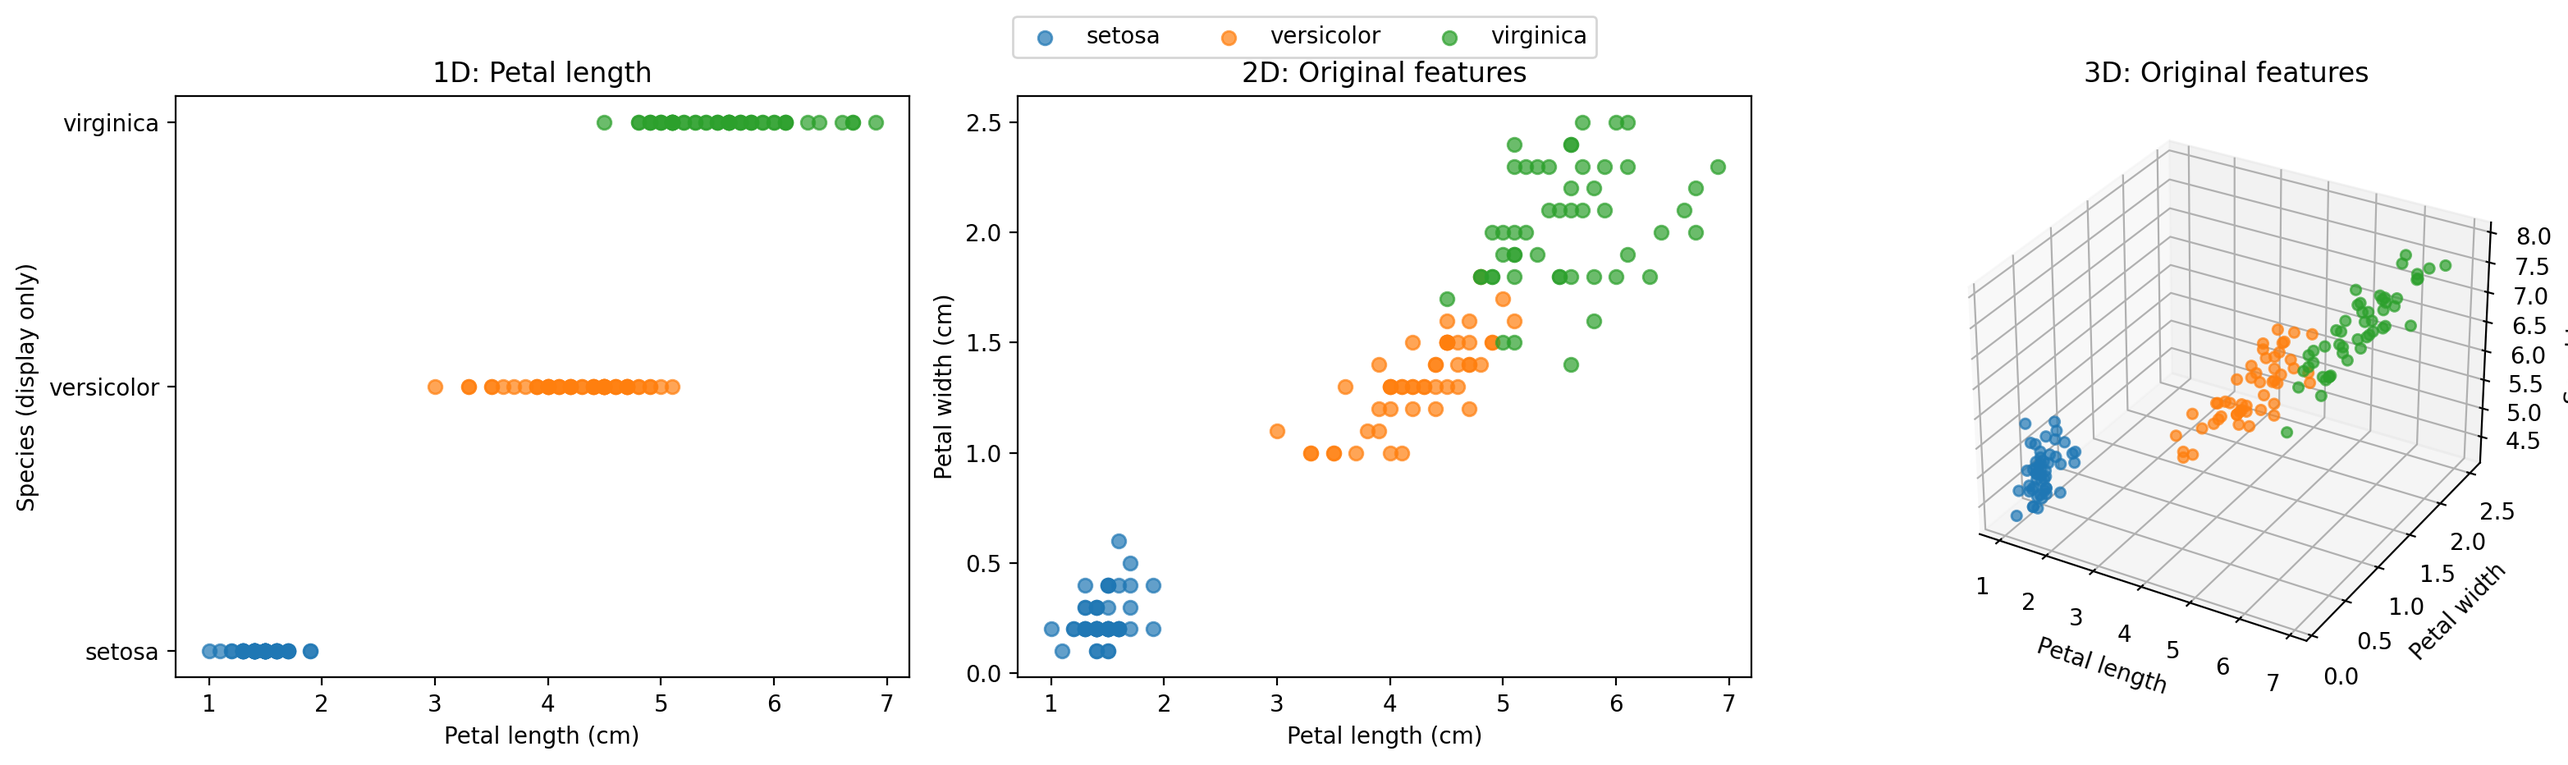
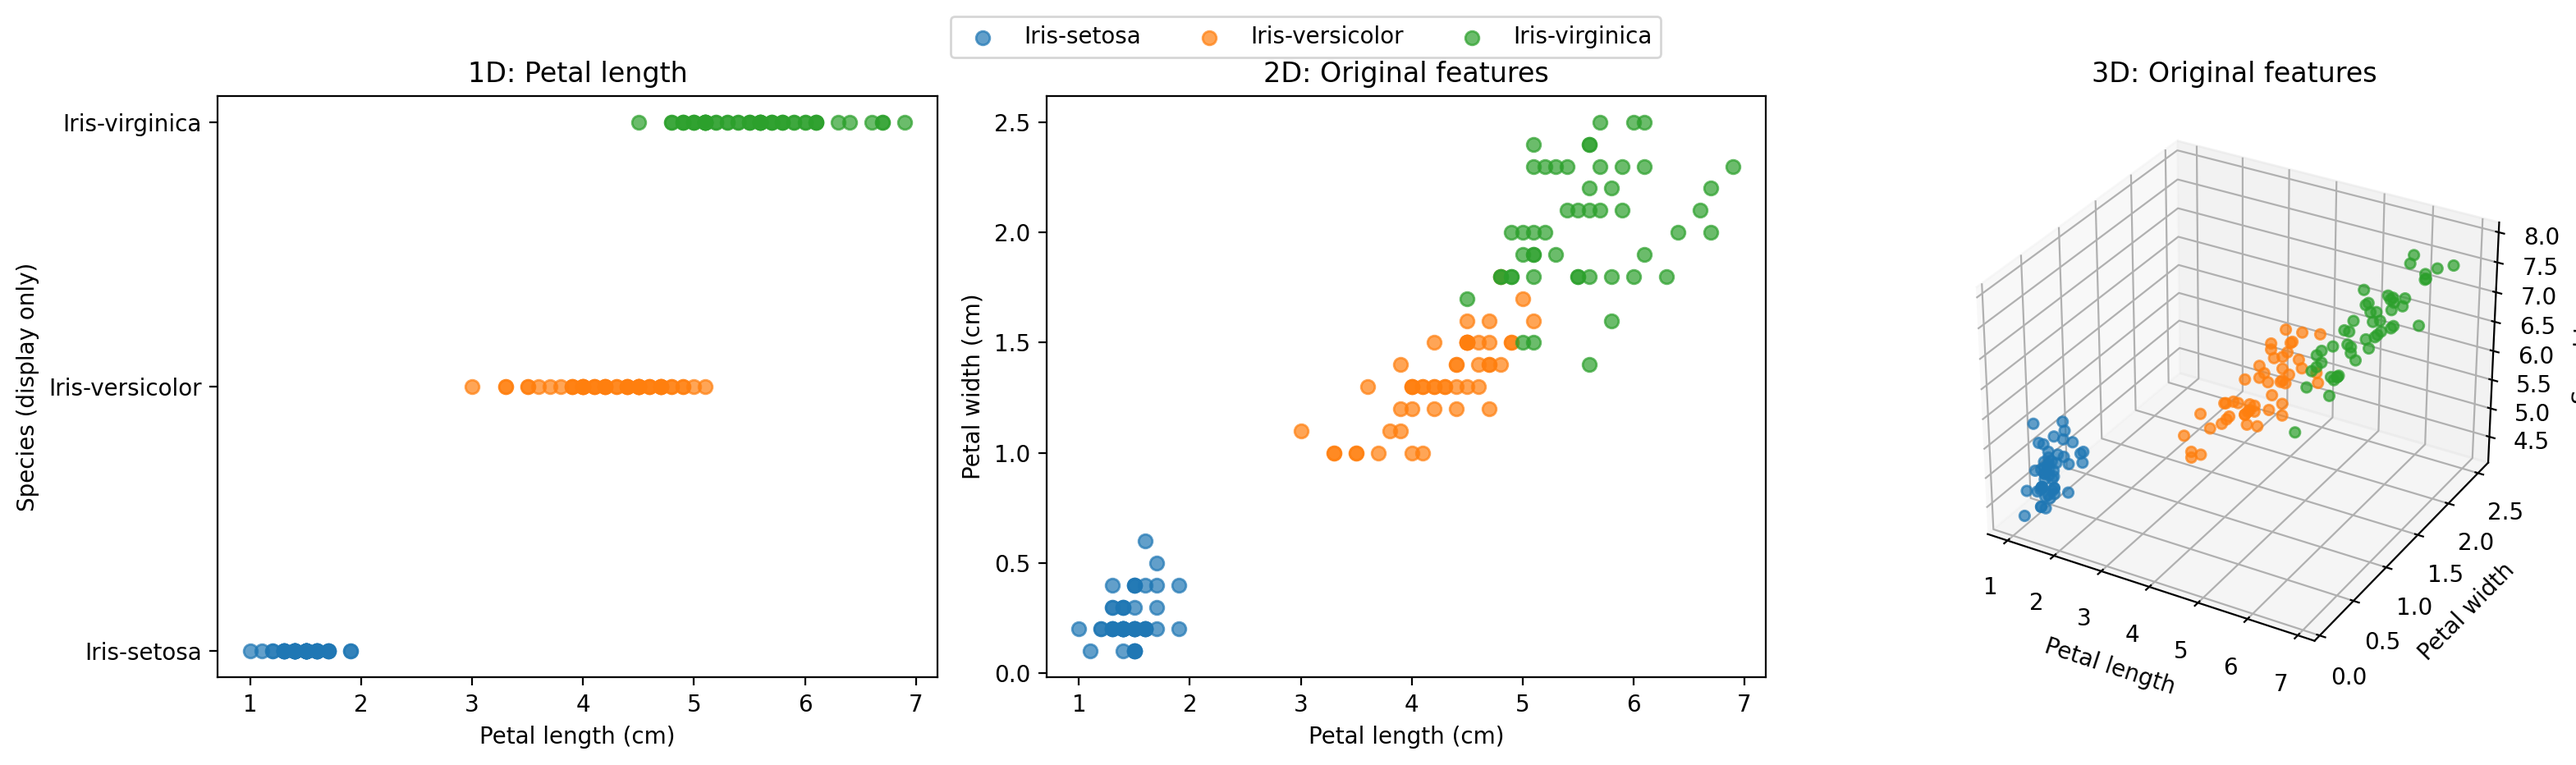
fixes to index 3

diff --git a/3/index.html b/3/index.html
@@ -73,7 +73,7 @@
     </figure>
 
     <h2 id="part2">Part 2 — Data Visualization</h2>
-    <p>The Iris dataset contains 150 observations across three species (Setosa, Versicolor, and Virginica). Each observation includes sepal length, sepal width, petal length, and petal width, all measured in centimeters. To marginalize the data as requested, I directly selected one, two, and three original feature dimensions without transforming them.</p>
+    <p>The Iris dataset was retrieved directly from the UCI Machine Learning Repository (dataset ID 53) using <code>ucimlrepo</code>. It contains 150 observations across three species (Setosa, Versicolor, and Virginica). Each observation includes sepal length, sepal width, petal length, and petal width, all measured in centimeters. To marginalize the data as requested, I directly selected one, two, and three original feature dimensions without transforming them.</p>
     <div class="a3-steps">
       <p><strong>1D:</strong> petal length</p>
       <p><strong>2D:</strong> petal length and petal width</p>
@@ -83,10 +83,10 @@
       <img src="./media/part2_features.png" alt="Iris visualizations with one, two, and three original features" loading="lazy">
       <div class="cap">Original-feature projections. The species coordinate in the 1D panel is used only to separate the groups visually; it is not a second input feature.</div>
     </div>
-    <p><strong>Comment.</strong> Petal length alone distinguishes Setosa fairly well because its petals are much shorter than those of the other two species. However, Versicolor and Virginica still overlap. Petal length versus petal width gives a particularly clear visualization of all three groups: Setosa is well isolated, and the other two species form largely distinct but partially overlapping clusters. Sepal length adds context in 3D, though it does not completely resolve the overlap. Of the projections shown, the <strong>petal-length/petal-width combination</strong> is the clearest and simplest view of class structure.</p>
+    <p>In the one-dimensional petal-length projection, Setosa is clearly separated from the other species, with petal lengths approximately between 1 and 2 cm. Versicolor and Virginica occupy higher, partially overlapping ranges. The two-dimensional petal-length/petal-width plot reveals three recognizable clusters: Setosa is completely separated, while Versicolor and Virginica overlap in a small region. Adding sepal length as a third feature reveals more of the distribution but does not fully eliminate the overlap. Among these selections, <strong>petal length and petal width</strong> provide the clearest, simplest class separation.</p>
 
     <h2 id="part3">Part 3 — Principal Component Analysis</h2>
-    <p>Unlike Part 2, PCA constructs new axes as linear combinations of all four original measurements. I fit scikit-learn's <code>PCA(n_components=4)</code> on the raw Iris features; the estimator centers each feature, and I did <strong>not</strong> standardize feature variances. The transformed coordinates were plotted using the leading one, two, and three principal components.</p>
+    <p>Unlike Part 2, PCA constructs new axes as linear combinations of all four original measurements. I fit scikit-learn's <code>PCA(n_components=4)</code> on the UCI Iris features; the estimator centers each feature, and I did <strong>not</strong> standardize feature variances. The transformed coordinates were plotted using the leading one, two, and three principal components.</p>
     <div class="eq">Xᶜ = X − μ<br>Z = Xᶜ W<br>W = [PC1, PC2, PC3, PC4]</div>
     <div class="plot">
       <img src="./media/part3_pca.png" alt="Iris dataset projected onto the first principal component, first two principal components, and first three principal components" loading="lazy">
@@ -97,13 +97,13 @@
     <div class="a3-table-wrap"><table>
       <thead><tr><th>Axis</th><th>Sepal length</th><th>Sepal width</th><th>Petal length</th><th>Petal width</th></tr></thead>
       <tbody>
-        <tr><td>PC1</td><td>0.3614</td><td>−0.0845</td><td>0.8567</td><td>0.3583</td></tr>
-        <tr><td>PC2</td><td>0.6566</td><td>0.7302</td><td>−0.1734</td><td>−0.0755</td></tr>
-        <tr><td>PC3</td><td>−0.5820</td><td>0.5979</td><td>0.0762</td><td>0.5458</td></tr>
-        <tr><td>PC4</td><td>0.3155</td><td>−0.3197</td><td>−0.4798</td><td>0.7537</td></tr>
+        <tr><td>PC1</td><td>0.3616</td><td>−0.0823</td><td>0.8566</td><td>0.3588</td></tr>
+        <tr><td>PC2</td><td>0.6565</td><td>0.7297</td><td>−0.1758</td><td>−0.0747</td></tr>
+        <tr><td>PC3</td><td>−0.5810</td><td>0.5964</td><td>0.0725</td><td>0.5491</td></tr>
+        <tr><td>PC4</td><td>0.3173</td><td>−0.3241</td><td>−0.4797</td><td>0.7511</td></tr>
       </tbody>
     </table></div>
-    <p><strong>Comment.</strong> The first principal component has its largest coefficient on petal length (0.8567), indicating that variation in this measurement strongly influences PC1. A single PCA axis already separates Setosa well, but Versicolor and Virginica still overlap. The PC1–PC2 plot reveals more of the separation, and PC3 makes some additional variation visible. PCA has therefore reduced four measurements to an easily plotted representation, while retaining contributions from every original feature.</p>
+    <p><strong>Comment.</strong> PC1 is most strongly influenced by petal length (coefficient 0.8566), while PC2 is primarily influenced by sepal length and sepal width (0.6565 and 0.7297). The one-dimensional PC1 projection clearly separates Setosa from the other species, but Versicolor and Virginica overlap. The PC1–PC2 projection reveals three recognizable groups, with overlap remaining between the latter two. PC3 adds some variation but does not completely separate those classes. The first two PCs already retain 97.76% of the total variance, so the third contributes relatively little additional variation.</p>
 
     <h2 id="part4">Part 4 — Data Compression</h2>
     <p>For centered data, the squared Frobenius norm equals the total sum of squared deviations. It is proportional to the sum of covariance eigenvalues, so retained variance after projection onto the first k PCs is the sum of their eigenvalues divided by the total.</p>
@@ -111,15 +111,15 @@
     <div class="a3-table-wrap"><table>
       <thead><tr><th>Component</th><th>Individual variance</th><th>Cumulative variance</th></tr></thead>
       <tbody>
-        <tr><td>PC1</td><td>92.4619%</td><td>92.4619%</td></tr>
-        <tr><td>PC2</td><td>5.3066%</td><td class="hero-num">97.7685%</td></tr>
-        <tr><td>PC3</td><td>1.7103%</td><td>99.4788%</td></tr>
-        <tr><td>PC4</td><td>0.5212%</td><td>100.0000%</td></tr>
+        <tr><td>PC1</td><td>92.4616%</td><td>92.4616%</td></tr>
+        <tr><td>PC2</td><td>5.3016%</td><td class="hero-num">97.7632%</td></tr>
+        <tr><td>PC3</td><td>1.7185%</td><td>99.4817%</td></tr>
+        <tr><td>PC4</td><td>0.5183%</td><td>100.0000%</td></tr>
       </tbody>
     </table></div>
     <h3>1. Variance explained by two dimensions</h3>
-    <div class="eq result"><strong>92.4619% + 5.3066% = 97.7685% ≈ 97.77%</strong></div>
-    <p>Two PCA dimensions retain nearly all of the original variance. Only about 2.23% of the total centered squared variation is lost.</p>
+    <div class="eq result"><strong>92.4616% + 5.3016% = 97.7632% ≈ 97.76%</strong></div>
+    <p>Two PCA dimensions retain nearly all of the original variance. Only about 2.24% of the total centered squared variation is lost.</p>
     <h3>2. Number of PCs needed for 50% variance</h3>
     <div class="eq result"><strong>PC1 alone = 92.46% &gt; 50% → 1 principal component</strong></div>
     <p><strong>Comment.</strong> PCA is a very effective compression method for this dataset: the four original features can be reduced to two with relatively little loss of variation. This statement concerns variance and squared reconstruction error, not necessarily how much information is retained for a classification task.</p>
@@ -139,25 +139,26 @@
       <thead><tr><th>Embedding</th><th>Silhouette score</th></tr></thead>
       <tbody>
         <tr><td>PCA (2 dimensions)</td><td>0.5344</td></tr>
-        <tr><td>ISOMAP (2 dimensions, k = 3)</td><td class="hero-num">0.5590</td></tr>
+        <tr><td>ISOMAP (2 dimensions, k = 3)</td><td class="hero-num">0.5598</td></tr>
       </tbody>
     </table></div>
     <div class="note"><strong>Important numerical limitation.</strong> With only three neighbors, the Iris nearest-neighbor graph contains <strong>two disconnected components</strong>. Scikit-learn warns about this and completes the graph so an ISOMAP embedding can be calculated. The ISOMAP result therefore depends in part on those added connections, and its apparent class separation should be interpreted cautiously.</div>
-    <p><strong>Comparison.</strong> ISOMAP has a slightly higher silhouette score (0.5590 versus 0.5344), which suggests modestly improved separation under this metric. Nonetheless, PCA is preferable for <strong>data compression</strong>: its first two components preserve 97.77% of variance and offer a direct linear reconstruction of the original centered measurements. ISOMAP does not optimize explained variance, so the PCA percentage cannot be applied directly to its embedding. ISOMAP may be somewhat preferable for visualizing class separation here, but its small gain and disconnected neighborhood graph limit how confidently we can claim an advantage.</p>
+    <p><strong>Comparison.</strong> ISOMAP has a slightly higher silhouette score (0.5598 versus 0.5344), an absolute increase of 0.0254, suggesting modestly improved separation under this metric. The ISOMAP plot shows Setosa as a narrow isolated cluster and more curved distributions for Versicolor and Virginica, which still overlap. Nonetheless, PCA is preferable for <strong>data compression</strong>: its first two components preserve 97.76% of variance and offer a direct linear reconstruction of the original centered measurements. ISOMAP does not optimize explained variance, so the PCA percentage cannot be applied directly to its embedding. ISOMAP may be somewhat preferable for visualizing class separation here, but its small gain and disconnected neighborhood graph limit how confidently we can claim an advantage.</p>
 
     <h2 id="source">Python Source</h2>
-    <p>The script includes the Iris feature projections, PCA vectors and variance calculation, the three-neighbor ISOMAP embedding, and the silhouette-score comparison. It uses NumPy, Matplotlib, and scikit-learn without extra helper functions.</p>
-    <div class="a3-links"><span class="badge">source</span> <a href="./code/SYDE_572_A3.py">Download full Python script</a> <a href="https://archive.ics.uci.edu/dataset/53/iris">Iris dataset (UCI)</a></div>
+    <p>The script fetches UCI Iris dataset 53 using <code>ucimlrepo</code>, then produces original-feature plots, PCA vectors and variance ratios, the three-neighbor ISOMAP embedding, and silhouette scores. It uses NumPy, Matplotlib, and scikit-learn without extra helper functions.</p>
+    <div class="a3-links"><span class="badge">source</span> <a href="./code/SYDE_572_A3_UCI.py">Download full Python script</a> <a href="https://archive.ics.uci.edu/dataset/53/iris">Iris dataset (UCI)</a></div>
     <details class="code a3-code">
       <summary>Show core PCA, variance, and ISOMAP code</summary>
-<pre><code>from sklearn.datasets import load_iris
+<pre><code>from ucimlrepo import fetch_ucirepo
 from sklearn.decomposition import PCA
 from sklearn.manifold import Isomap
 from sklearn.metrics import silhouette_score
 import numpy as np
 
-iris = load_iris()
-X, y = iris.data, iris.target
+iris = fetch_ucirepo(id=53)
+X = iris.data.features.to_numpy(dtype=float)
+y = iris.data.targets.iloc[:, 0].to_numpy()
 
 pca = PCA(n_components=4)
 X_pca = pca.fit_transform(X)

diff --git a/3/code/SYDE 572 A3.py b/3/code/SYDE 572 A3.py
@@ -1,27 +1,32 @@
 import numpy as np
 import matplotlib.pyplot as plt
-from sklearn.datasets import load_iris
+from ucimlrepo import fetch_ucirepo
 from sklearn.decomposition import PCA
 from sklearn.manifold import Isomap
 from sklearn.metrics import silhouette_score
 
-iris = load_iris()
-X, y = iris.data, iris.target
-names = iris.target_names
-colours = ['tab:blue', 'tab:orange', 'tab:green']
+# UCI Machine Learning Repository: Iris (dataset ID 53)
+iris = fetch_ucirepo(id=53)
+X = iris.data.features.to_numpy(dtype=float)
+y = iris.data.targets.iloc[:, 0].to_numpy()
+names = np.unique(y)
+print('Feature order:', iris.data.features.columns.tolist())
+print('Dataset shape:', X.shape)
+print('Species:', names)
+colors = ['tab:blue', 'tab:orange', 'tab:green']
 
 # Part 2: Original feature projections
 fig = plt.figure(figsize=(16, 4.5))
 ax1 = fig.add_subplot(131)
 ax2 = fig.add_subplot(132)
 ax3 = fig.add_subplot(133, projection='3d')
-for i in range(3):
-    mask = y == i
-    ax1.scatter(X[mask, 2], np.full(mask.sum(), i), color=colours[i], alpha=0.7, label=names[i])
-    ax2.scatter(X[mask, 2], X[mask, 3], color=colours[i], alpha=0.7)
-    ax3.scatter(X[mask, 2], X[mask, 3], X[mask, 0], color=colours[i], alpha=0.7)
+for i, species in enumerate(names):
+    mask = y == species
+    ax1.scatter(X[mask, 2], np.full(mask.sum(), i), color=colors[i], alpha=0.7, label=species)
+    ax2.scatter(X[mask, 2], X[mask, 3], color=colors[i], alpha=0.7)
+    ax3.scatter(X[mask, 2], X[mask, 3], X[mask, 0], color=colors[i], alpha=0.7)
 ax1.set(xlabel='Petal length (cm)', ylabel='Species (display only)', title='1D: Petal length')
-ax1.set_yticks(range(3), names)
+ax1.set_yticks(range(len(names)), names)
 ax2.set(xlabel='Petal length (cm)', ylabel='Petal width (cm)', title='2D: Original features')
 ax3.set(xlabel='Petal length', ylabel='Petal width', zlabel='Sepal length', title='3D: Original features')
 fig.legend(loc='upper center', ncol=3, bbox_to_anchor=(0.5, 1.04))
@@ -41,13 +46,13 @@ fig = plt.figure(figsize=(16, 4.5))
 ax1 = fig.add_subplot(131)
 ax2 = fig.add_subplot(132)
 ax3 = fig.add_subplot(133, projection='3d')
-for i in range(3):
-    mask = y == i
-    ax1.scatter(X_pca[mask, 0], np.full(mask.sum(), i), color=colours[i], alpha=0.7, label=names[i])
-    ax2.scatter(X_pca[mask, 0], X_pca[mask, 1], color=colours[i], alpha=0.7)
-    ax3.scatter(X_pca[mask, 0], X_pca[mask, 1], X_pca[mask, 2], color=colours[i], alpha=0.7)
+for i, species in enumerate(names):
+    mask = y == species
+    ax1.scatter(X_pca[mask, 0], np.full(mask.sum(), i), color=colors[i], alpha=0.7, label=species)
+    ax2.scatter(X_pca[mask, 0], X_pca[mask, 1], color=colors[i], alpha=0.7)
+    ax3.scatter(X_pca[mask, 0], X_pca[mask, 1], X_pca[mask, 2], color=colors[i], alpha=0.7)
 ax1.set(xlabel='PC1', ylabel='Species (display only)', title='1D PCA')
-ax1.set_yticks(range(3), names)
+ax1.set_yticks(range(len(names)), names)
 ax2.set(xlabel='PC1', ylabel='PC2', title='2D PCA')
 ax3.set(xlabel='PC1', ylabel='PC2', zlabel='PC3', title='3D PCA')
 fig.legend(loc='upper center', ncol=3, bbox_to_anchor=(0.5, 1.04))
@@ -58,10 +63,10 @@ fig.savefig('3/media/part3_pca.png', dpi=200, bbox_inches='tight')
 isomap = Isomap(n_neighbors=3, n_components=2)
 X_isomap = isomap.fit_transform(X)
 fig, axes = plt.subplots(1, 2, figsize=(11, 4.5))
-for i in range(3):
-    mask = y == i
-    axes[0].scatter(X_pca[mask, 0], X_pca[mask, 1], color=colours[i], alpha=0.7, label=names[i])
-    axes[1].scatter(X_isomap[mask, 0], X_isomap[mask, 1], color=colours[i], alpha=0.7)
+for i, species in enumerate(names):
+    mask = y == species
+    axes[0].scatter(X_pca[mask, 0], X_pca[mask, 1], color=colors[i], alpha=0.7, label=species)
+    axes[1].scatter(X_isomap[mask, 0], X_isomap[mask, 1], color=colors[i], alpha=0.7)
 axes[0].set(xlabel='PC1', ylabel='PC2', title='PCA (2D)')
 axes[1].set(xlabel='Isomap 1', ylabel='Isomap 2', title='Isomap (3 neighbors)')
 fig.legend(loc='upper center', ncol=3, bbox_to_anchor=(0.5, 1.05))
